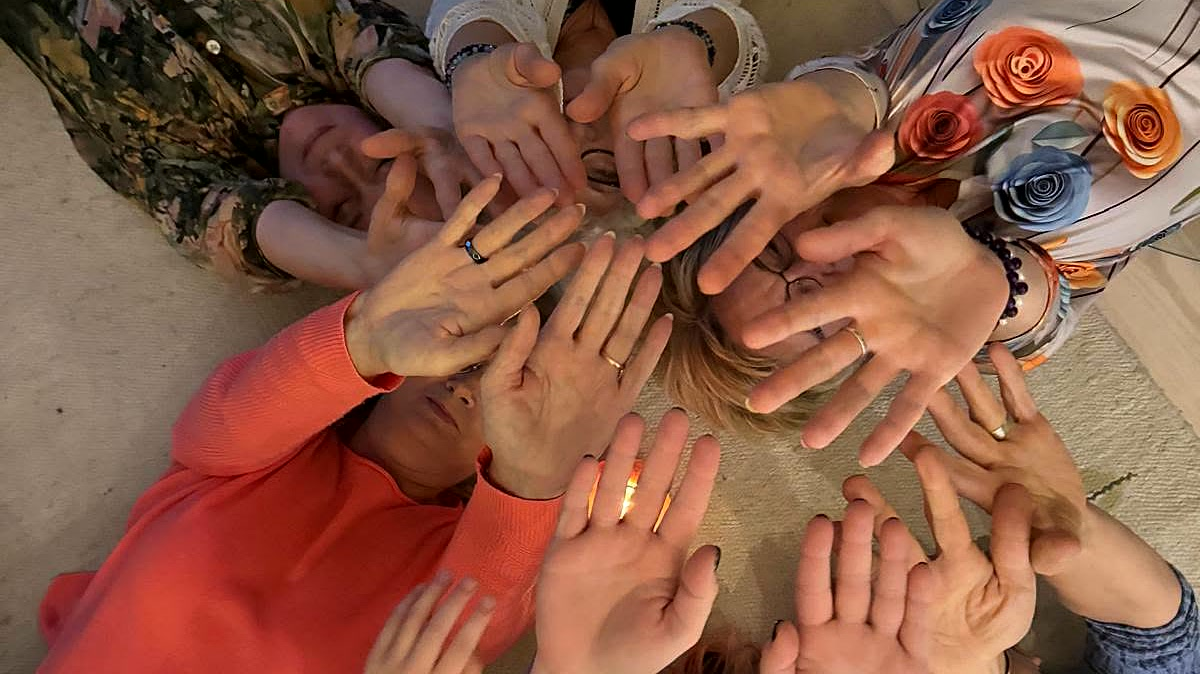
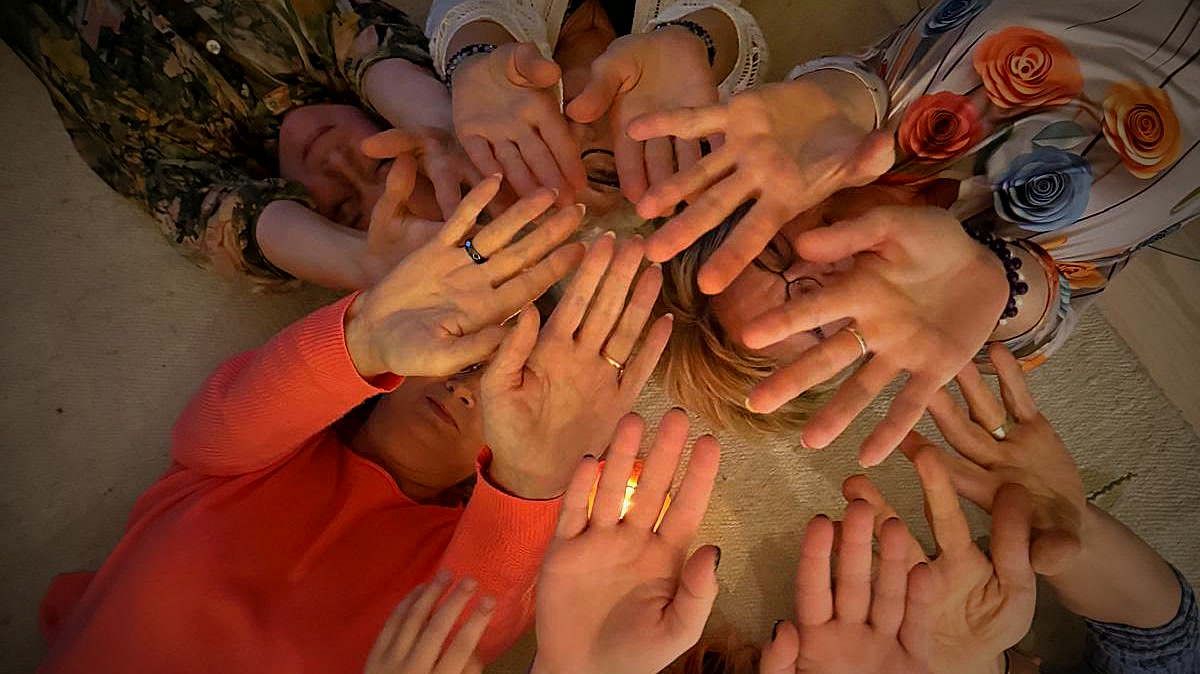
Kompass: hands photo brought alive

diff --git a/index.html b/index.html
@@ -594,7 +594,7 @@
     $("r-mc-list").innerHTML = ((st.sex === "naine" && OFFER_W[main]) || OFFER[main] || []).map(([b, t]) => `<li style="margin:0 0 8px;font-size:14.5px;line-height:1.45">✓ <b>${b}</b>${t}</li>`).join("");
     $("r-course-btn").href = payOf(main) || "#";
     $("r-proof").textContent = st.sex === "naine" ? "✓ Sadade naiste valik\u2003✓ Eestis loodud" : "✓ Aidanud sadu mehi\u2003✓ Eestis loodud meetod";
-    const IMGV = "0620";   // bump when a photo is swapped (beats browser + CDN cache)
+    const IMGV = "0624";   // bump when a photo is swapped (beats browser + CDN cache)
     const bg = `assets/bg/${main}-${st.sex === "naine" ? "n" : "m"}.jpg?v=${IMGV}`;
     const NO_IMG = [];   // new photos coming 29.10; hide banner until then
     $("r-mc-img").src = bg; $("r-mc-img").style.display = NO_IMG.includes(`${main}-${st.sex === "naine" ? "n" : "m"}`) ? "none" : "";
